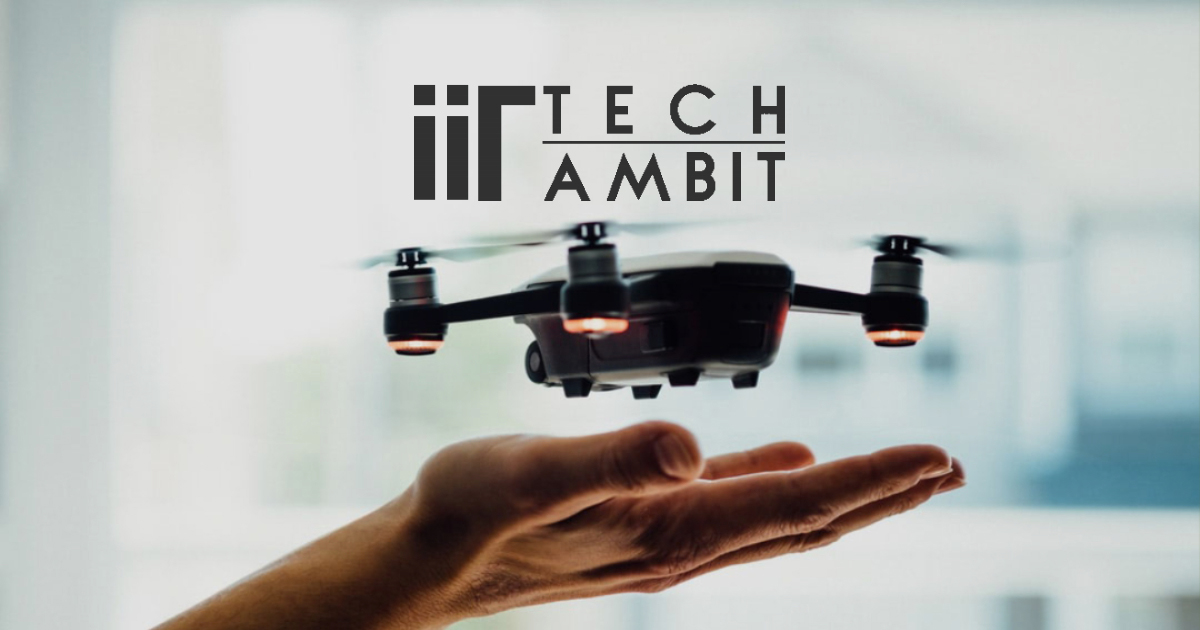
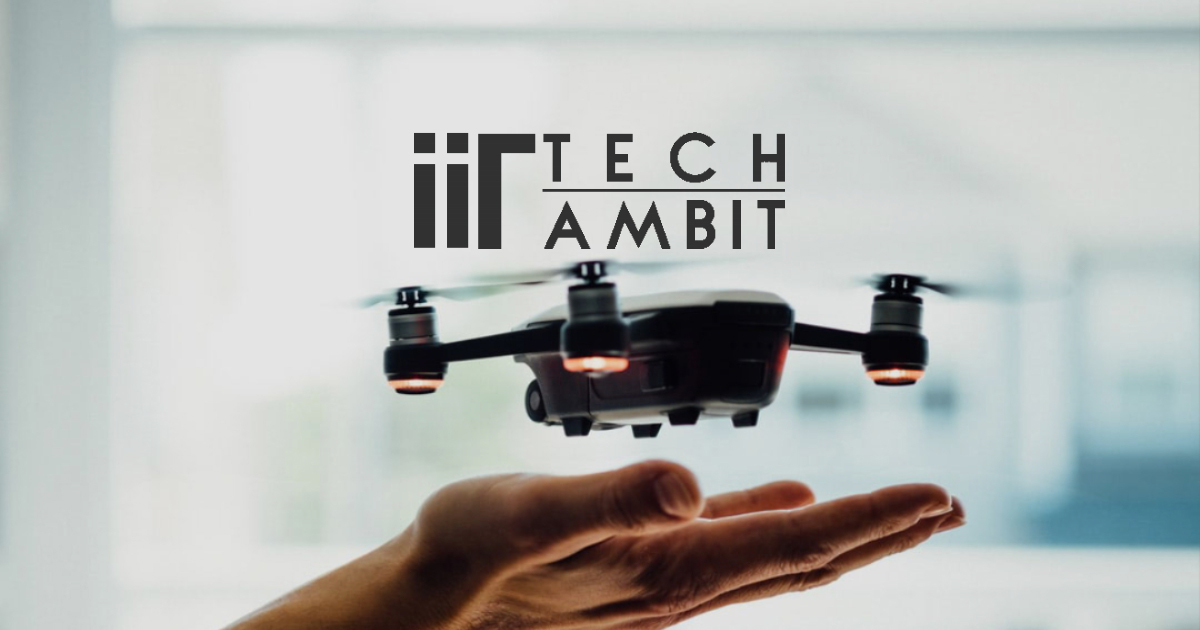
Fixed alignment issues, again

diff --git a/index.html b/index.html
@@ -83,7 +83,7 @@
 		<aside id="colorlib-hero">
 			<div class="flexslider">
 				<ul class="slides">
-			   	<li style="background-image: url(images/img_bg_1.png);">
+			   	<li style="background-image: url(images/img_bg_1.jpg);">
 			   		<div class="overlay"></div>
 			   		<div class="container">
 			   			<div class="row">
